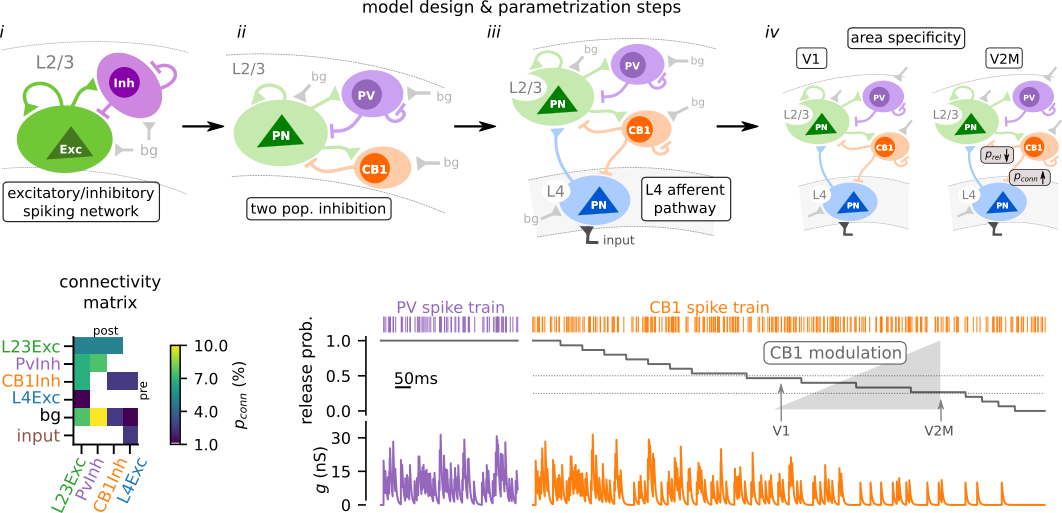
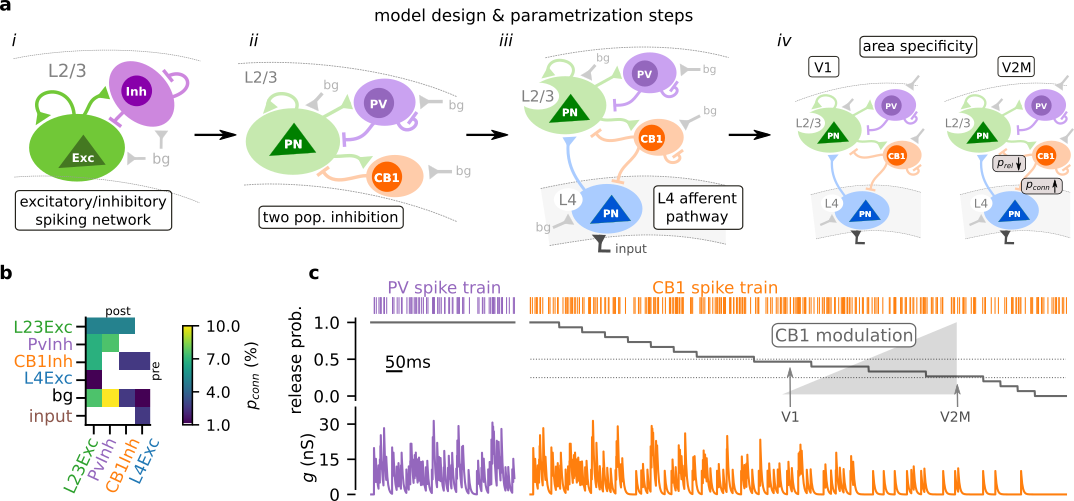
update readme

diff --git a/README.md b/README.md
@@ -12,7 +12,7 @@ cd CB1_ntwk_modeling
 git submodule init
 git submodule update
 ```
-Note that the code relies on custom modules for [spiking network simulation](https://github.com/yzerlaut/neural_network_simulations) (based on Brian2) and [data visualization](https://github.com/yzerlaut/datavyz) (based on matplotlib).
+Note that the code relies on custom modules for [spiking network simulation](https://github.com/yzerlaut/neural_network_dynamics) (based on [Brian2](https://brian2.readthedocs.io/en/stable/)) and [data visualization](https://github.com/yzerlaut/datavyz) (based on matplotlib).
 
 ## Model 
 
@@ -22,6 +22,7 @@ Note that the code relies on custom modules for [spiking network simulation](htt
 - exponential waveform for synaptic events
 
 ![model](doc/model.png)
+_**Modeling the impact of the visual-area-specific CB1 modulation properties on the dynamics of cortical circuit. (a)** Schematic of the steps for the design of the model design and its parametrization (see Methods). **(b)** Connectivity matrix of the model in the V1 settings (see also Table 1). **(c)** Illustration of the effect of release probability variations in the conversion of a Poisson process into synaptic conductance variations g. We show variations for the CB1 synapse and we highlight the two levels considered in the main text corresponding to the V2M and V1 settings. As in this illustration, the release probability for PV synapses is fixed to 1 in the whole study._
 
 #### Running the parametrization steps
 ```
@@ -39,6 +40,8 @@ python src/input-processing.py seed-input-analysis
 - analyzing input-evoked dynamics in the different settings (gain, correlations)
 
 ![example-sim](doc/example-sim.png)
+
+
 
 #### Getting the results
 ```
